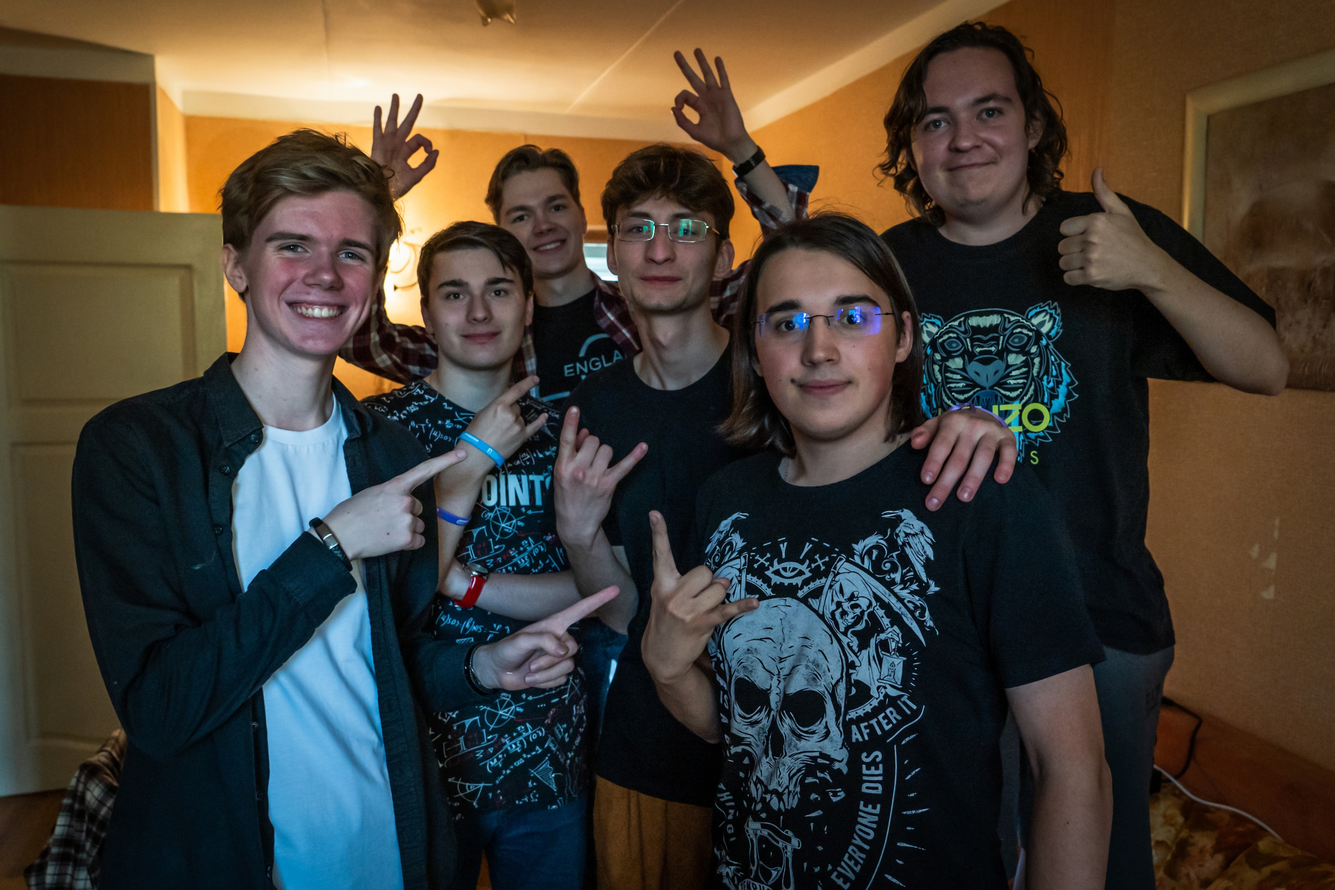
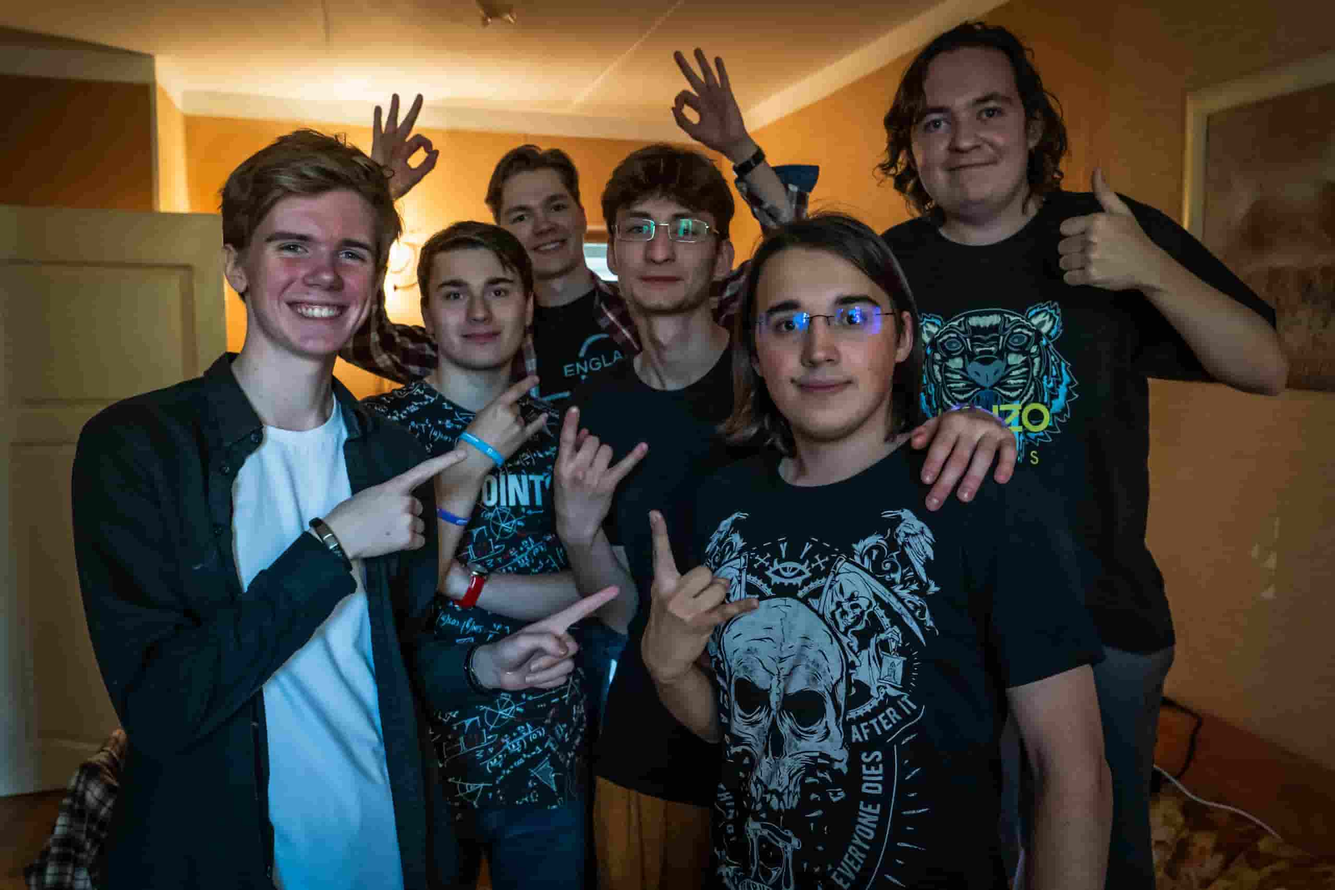
comment

diff --git a/src/pages/ThreeDDesignersPage/components/Projects/Projects.tsx b/src/pages/ThreeDDesignersPage/components/Projects/Projects.tsx
@@ -1,13 +1,13 @@
 import styles from "./Projects.module.css";
-import pool from "../../../../assets/images/three-d-pool.png";
-import house from "../../../../assets/images/three-d-house.png";
-import coffee from "../../../../assets/images/three-d-coffee.png";
-import yorik from "../../../../assets/images/three-d-yorik.png";
-import village from "../../../../assets/images/three-d-village.png";
-import stairs from "../../../../assets/images/three-d-stairs.png";
-import stairs1 from "../../../../assets/images/three-d-stairs1.png";
-import stairs2 from "../../../../assets/images/three-d-stairs2.png";
-import stairs3 from "../../../../assets/images/three-d-stairs3.png";
+import pool from "../../../../assets/images/three-d-pool.jpg";
+import house from "../../../../assets/images/three-d-house.jpg";
+import coffee from "../../../../assets/images/three-d-coffee.jpg";
+import yorik from "../../../../assets/images/three-d-yorik.jpg";
+import village from "../../../../assets/images/three-d-village.jpg";
+import stairs from "../../../../assets/images/three-d-stairs.jpg";
+import stairs1 from "../../../../assets/images/three-d-stairs1.jpg";
+import stairs2 from "../../../../assets/images/three-d-stairs2.jpg";
+import stairs3 from "../../../../assets/images/three-d-stairs3.jpg";
 
 export function Projects() {
   return (

diff --git a/src/pages/DesignersPage/components/OurProjects/OurProjects.tsx b/src/pages/DesignersPage/components/OurProjects/OurProjects.tsx
@@ -1,16 +1,14 @@
 import * as React from "react";
 import ImageList from "@mui/material/ImageList";
 import ImageListItem from "@mui/material/ImageListItem";
-import img1 from "../../../../assets/images/design-img1.png";
-import img2 from "../../../../assets/images/design-img2.png";
-import img3 from "../../../../assets/images/design-img3.png";
-import img4 from "../../../../assets/images/design-img4.png";
-import img5 from "../../../../assets/images/design-img5.png";
-import img6 from "../../../../assets/images/design-img6.png";
-import img7 from "../../../../assets/images/design-img7.png";
-import img8 from "../../../../assets/images/design-img8.png";
-import img9 from "../../../../assets/images/design-img9.png";
-import img10 from "../../../../assets/images/design-img10.png";
+
+import img3 from "../../../../assets/images/design-img3.jpg";
+import img4 from "../../../../assets/images/design-img4.jpg";
+import img5 from "../../../../assets/images/design-img5.jpg";
+import img6 from "../../../../assets/images/design-img6.jpg";
+import img7 from "../../../../assets/images/design-img7.jpg";
+
+import img10 from "../../../../assets/images/design-img10.jpg";
 import styles from "./OurProjects.module.css";
 
 export function OurProjects() {

diff --git a/src/pages/ThreeDDesignersPage/components/OurProjects/OurProjects.tsx b/src/pages/ThreeDDesignersPage/components/OurProjects/OurProjects.tsx
@@ -6,11 +6,11 @@ import "swiper/css";
 import "swiper/css/navigation";
 import "swiper/css/pagination";
 import "swiper/css/scrollbar";
-import project1 from "../../../../assets/images/three-d-project1.png";
-import project2 from "../../../../assets/images/three-d-project2.png";
-import project3 from "../../../../assets/images/three-d-project3.png";
-import project4 from "../../../../assets/images/three-d-project4.png";
-import project5 from "../../../../assets/images/three-d-project5.png";
+import project1 from "../../../../assets/images/three-d-project1.jpg";
+import project2 from "../../../../assets/images/three-d-project2.jpg";
+import project3 from "../../../../assets/images/three-d-project3.jpg";
+import project4 from "../../../../assets/images/three-d-project4.jpg";
+import project5 from "../../../../assets/images/three-d-project5.jpg";
 
 export function OurProject() {
   return (

diff --git a/src/pages/DesignersPage/components/Projects/Projects.tsx b/src/pages/DesignersPage/components/Projects/Projects.tsx
@@ -1,9 +1,9 @@
 import styles from "./Projects.module.css";
 import { Carousel } from "react-responsive-carousel";
 import "react-responsive-carousel/lib/styles/carousel.min.css";
-import site1 from "../../../../assets/images/design-site1.png";
-import site2 from "../../../../assets/images/design-site2.png";
-import site3 from "../../../../assets/images/design-site3.png";
+import site1 from "../../../../assets/images/design-site1.jpg";
+import site2 from "../../../../assets/images/design-site2.jpg";
+import site3 from "../../../../assets/images/design-site3.jpg";
 
 export function Projects() {
   return (

diff --git a/src/pages/ProgrammersPage/ProgrammersPage.tsx b/src/pages/ProgrammersPage/ProgrammersPage.tsx
@@ -3,7 +3,7 @@ import { MainPerson } from "../../components/MainPerson/MainPerson";
 import { OurStack } from "./components/OurStack/OurStack";
 import { ProgrammersPageHero } from "./components/ProgrammersPageHero/ProgrammersPageHero";
 import styles from "./ProgrammersPage.module.css";
-import anar from "../../assets/images/anar.png";
+import anar from "../../assets/images/anar.jpg";
 import { Footer } from "../../components/Footer/Footer";
 import { OurProject } from "./components/OurProjects/OurProjects";
 import { OurActivities } from "./components/OurActivities/OurAcrivities";

diff --git a/index.html b/index.html
@@ -5,7 +5,7 @@
     <link
       rel="icon"
       type="image/svg+xml"
-      href="/src/assets/icons/unit-circle-icon.png"
+      href="./src/assets/icons/unit-circle-icon.png"
     />
     <link rel="shortcut icon" href="" type="image/x-icon" />
     <meta name="viewport" content="width=device-width, initial-scale=1.0" />

diff --git a/src/pages/MainPage/components/Form/Form.module.css b/src/pages/MainPage/components/Form/Form.module.css
@@ -4,7 +4,7 @@
   flex-direction: column;
   justify-content: center;
   align-items: center;
-  background: url("/src/assets/images/background-form.png");
+  background: url("/src/assets/images/background-form.jpg");
   background-repeat: no-repeat;
 
   background-size: cover;
